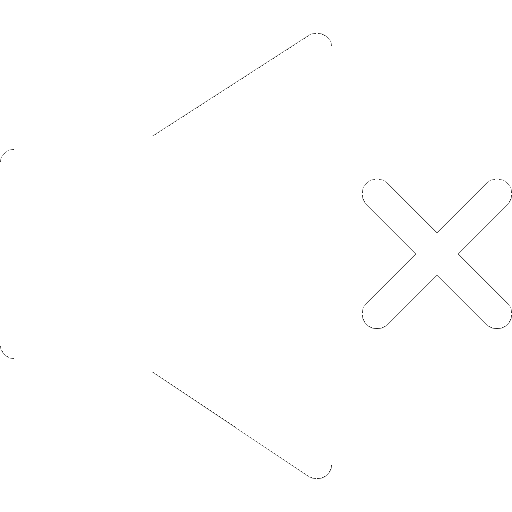
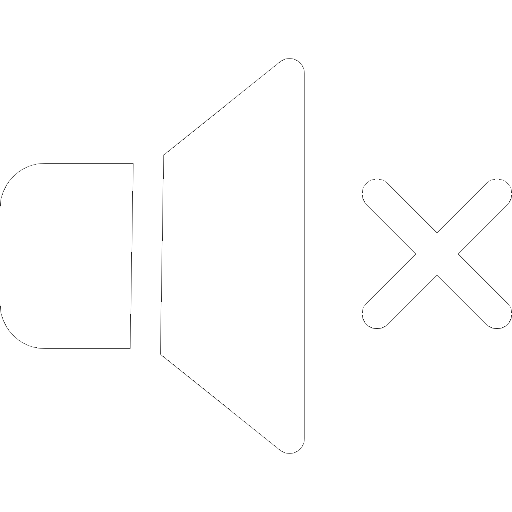
toggle- sound button finished + adapted the click sound of toggel on and toggle off , picture that modifies by the coundition of the sound mute on click

Changed region(s): [[0.5312, 0.875, 0.5625, 0.9062]]

diff --git a/index.html b/index.html
@@ -21,18 +21,20 @@
         </div>
         <div class="turnsDisplayContainer" id="turnsContainer">
             <div class="restartAndMuteContainer">
-                <p
+                <span
                     class="restartButton"
                     id="restartButton"
                     onclick="restartGame()"
                 >
                     Restart
-                </p>
-                <div
+                </span>
+                <img
                     class="soundButton"
                     id="soundButton"
+                    src="./assets/toggle-sound-on.png"
+                    alt="site's logo"
                     onclick="toggleSound()"
-                ></div>
+                />
             </div>
             <p class="playerTurn myTurn" id="playerOTurn">player O turn</p>
             <p class="playerTurn myTurn" id="playerXTurn">player X turn</p>

diff --git a/scripts/main.js b/scripts/main.js
@@ -27,9 +27,15 @@ function restartGame() {
 function toggleSound() {
     const soundButton = document.getElementById(ELEMENTS_IDS.soundButton);
 
-    /* if (isMute) {
-        isMute = false;
+    if (!isMute) {
+        isMute = true;
+        buttonSound('toggleOff');
         removeAttributes(soundButton, 'src');
         addAttributes(soundButton, { src: './assets/toggle-sound-off.png' });
-    }*/
+    } else {
+        isMute = false;
+        buttonSound('toggleOn');
+        removeAttributes(soundButton, 'src');
+        addAttributes(soundButton, { src: './assets/toggle-sound-on.png' });
+    }
 }

diff --git a/scripts/functions-utils.js b/scripts/functions-utils.js
@@ -66,3 +66,9 @@ function declareWinner() {
 
     removeClasses(winnerContainer, 'playing');
 }
+
+function buttonSound(type, file = 'mp3') {
+    if (!isMute || type === 'toggleOff') {
+        new Audio(`../assets/sound-${type}.${file}`).play();
+    }
+}

diff --git a/scripts/game-logic-utils.js b/scripts/game-logic-utils.js
@@ -87,7 +87,3 @@ function isWinnerBySlant() {
         return true;
     } else return false;
 }
-
-function buttonSound(type, file = 'mp3') {
-    new Audio(`../assets/sound-${type}.${file}`).play();
-}

diff --git a/scripts/functions.js b/scripts/functions.js
@@ -52,3 +52,5 @@ function finishGame(hidePopupButton = false) {
     if (!hidePopupButton) showPlayAgainButton();
     resetGameMatrix();
 }
+
+

diff --git a/styles/scss/_buttons.scss b/styles/scss/_buttons.scss
@@ -56,7 +56,6 @@
 }
 
 .soundButton {
-    position: absolute;
     margin-left: 15px;
     height: 55px;
     width: 50px;
